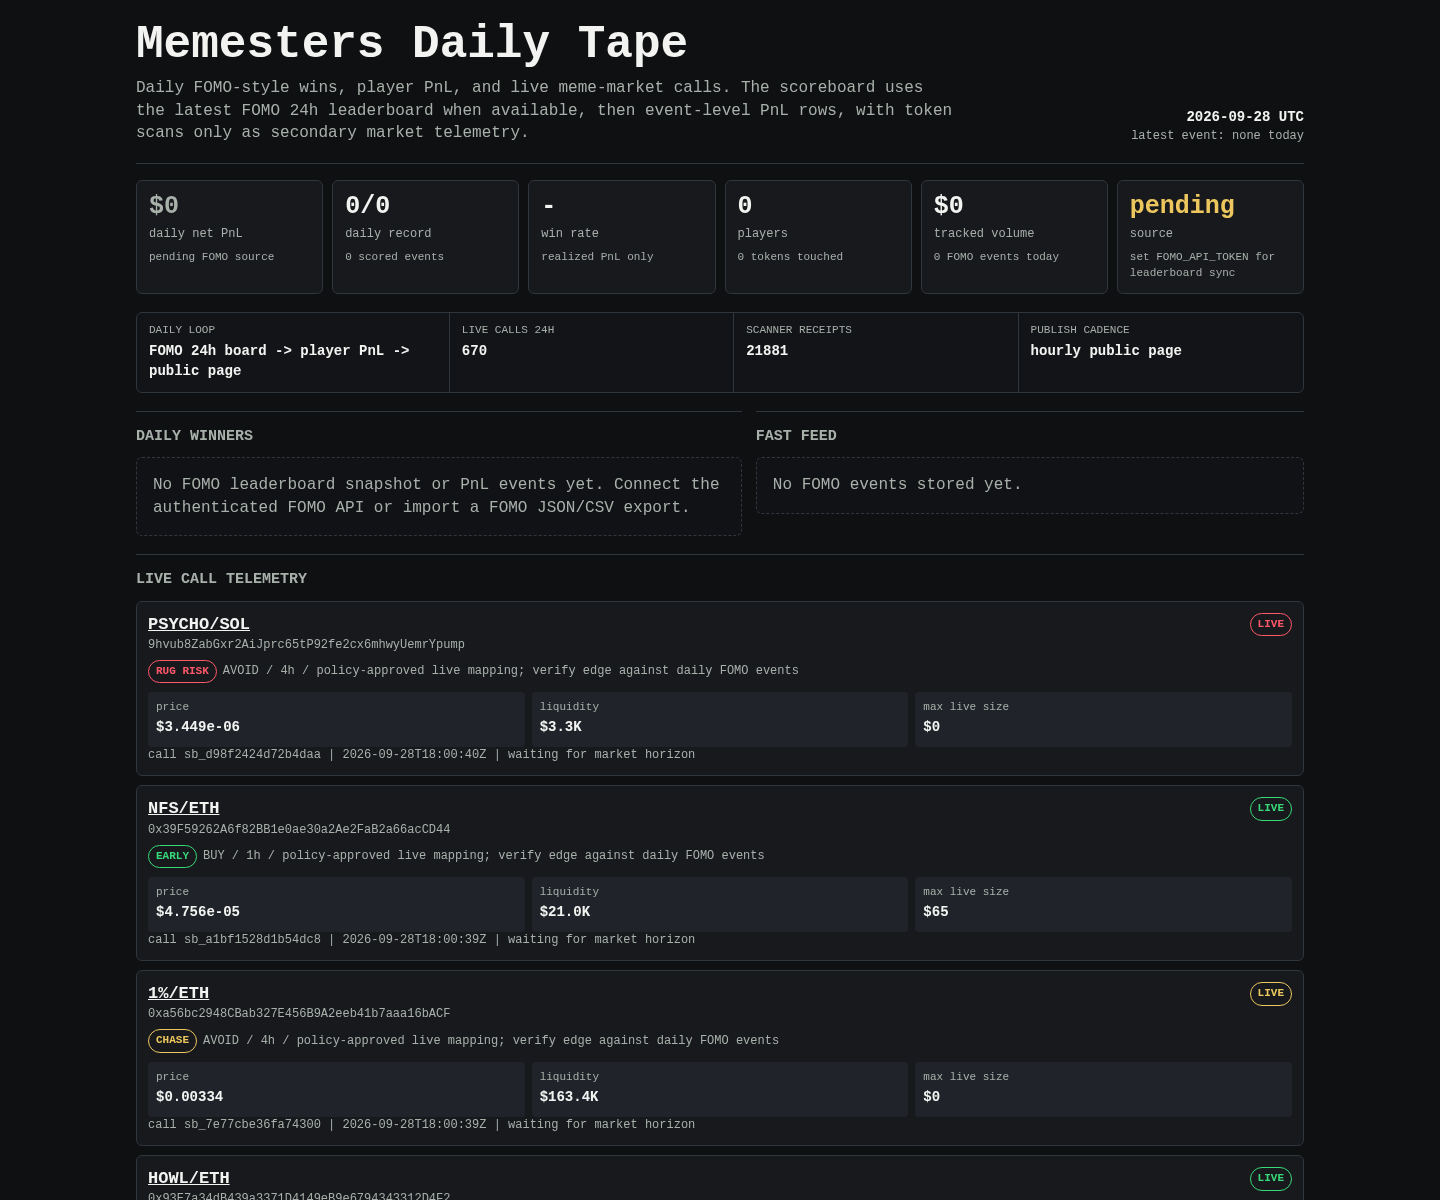
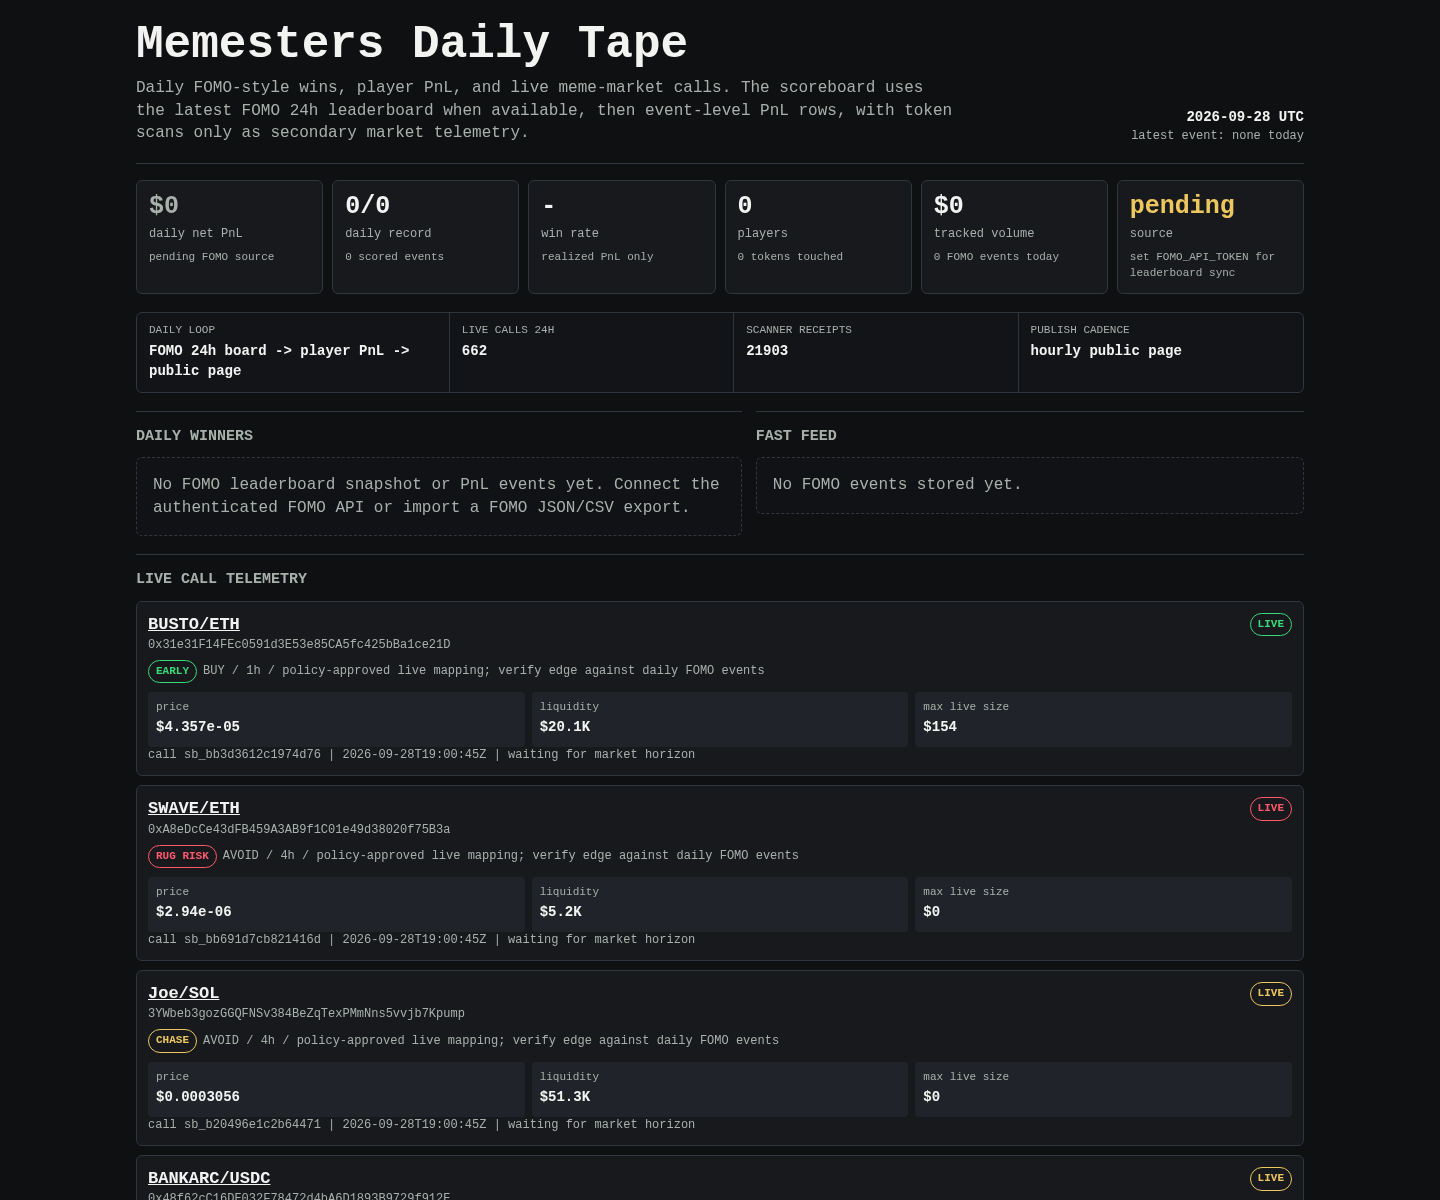
Update Memesters scoreboard

diff --git a/memesters/index.html b/memesters/index.html
@@ -149,8 +149,8 @@
 
     <div class="rail" aria-label="live operating loop">
       <div><span>daily loop</span><b>FOMO 24h board -> player PnL -> public page</b></div>
-      <div><span>live calls 24h</span><b>670</b></div>
-      <div><span>scanner receipts</span><b>21881</b></div>
+      <div><span>live calls 24h</span><b>662</b></div>
+      <div><span>scanner receipts</span><b>21903</b></div>
       <div><span>publish cadence</span><b>hourly public page</b></div>
     </div>
 
@@ -171,8 +171,29 @@
     <article class="receipt">
       <div class="receipt-head">
         <div>
-          <div class="pair"><a href="https://dexscreener.com/solana/dturxzvx5byjbnywzmeuuzdgmds3nvl54bcpar17y2cj">PSYCHO/SOL</a></div>
-          <div class="addr">9hvub8ZabGxr2AiJprc65tP92fe2cx6mhwyUemrYpump</div>
+          <div class="pair"><a href="https://dexscreener.com/robinhood/0x203d7a6fc181b4f360a4c6f4658244ace6a60e0e6060842c6c8265bd5f88f2dc">BUSTO/ETH</a></div>
+          <div class="addr">0x31e31F14FEc0591d3E53e85CA5fc425bBa1ce21D</div>
+          <div class="addr policy-line">
+            <span class="badge early">EARLY</span>
+            <span>BUY / 1h / policy-approved live mapping; verify edge against daily FOMO events</span>
+          </div>
+        </div>
+        <span class="badge early">LIVE</span>
+      </div>
+      <div class="receipt-grid">
+        <div class="kv"><span>price</span><b>$4.357e-05</b></div>
+        <div class="kv"><span>liquidity</span><b>$20.1K</b></div>
+        <div class="kv"><span>max live size</span><b>$154</b></div>
+      </div>
+      <div class="outcomes">call sb_bb3d3612c1974d76 | 2026-09-28T19:00:45Z | waiting for market horizon</div>
+    </article>
+    
+
+    <article class="receipt">
+      <div class="receipt-head">
+        <div>
+          <div class="pair"><a href="https://dexscreener.com/robinhood/0x1bad3a45105eb2ecd85be9cd23c222981812ad85f7dcd65cc6dc9ff84487f0a3">SWAVE/ETH</a></div>
+          <div class="addr">0xA8eDcCe43dFB459A3AB9f1C01e49d38020f75B3a</div>
           <div class="addr policy-line">
             <span class="badge rug-risk">RUG RISK</span>
             <span>AVOID / 4h / policy-approved live mapping; verify edge against daily FOMO events</span>
@@ -181,19 +202,124 @@
         <span class="badge rug-risk">LIVE</span>
       </div>
       <div class="receipt-grid">
-        <div class="kv"><span>price</span><b>$3.449e-06</b></div>
-        <div class="kv"><span>liquidity</span><b>$3.3K</b></div>
+        <div class="kv"><span>price</span><b>$2.94e-06</b></div>
+        <div class="kv"><span>liquidity</span><b>$5.2K</b></div>
         <div class="kv"><span>max live size</span><b>$0</b></div>
       </div>
-      <div class="outcomes">call sb_d98f2424d72b4daa | 2026-09-28T18:00:40Z | waiting for market horizon</div>
+      <div class="outcomes">call sb_bb691d7cb821416d | 2026-09-28T19:00:45Z | waiting for market horizon</div>
     </article>
     
 
     <article class="receipt">
       <div class="receipt-head">
         <div>
-          <div class="pair"><a href="https://dexscreener.com/robinhood/0x8eb8904318df3293e8f6ec09305fa23bcced4f52926f1d2e5f36486fd64f2c65">NFS/ETH</a></div>
-          <div class="addr">0x39F59262A6f82BB1e0ae30a2Ae2FaB2a66acCD44</div>
+          <div class="pair"><a href="https://dexscreener.com/solana/egqpnnvwb6afzcwgaf932jbttzc3kmgpzwphm9mgwqea">Joe/SOL</a></div>
+          <div class="addr">3YWbeb3gozGGQFNSv384BeZqTexPMmNns5vvjb7Kpump</div>
+          <div class="addr policy-line">
+            <span class="badge chase">CHASE</span>
+            <span>AVOID / 4h / policy-approved live mapping; verify edge against daily FOMO events</span>
+          </div>
+        </div>
+        <span class="badge chase">LIVE</span>
+      </div>
+      <div class="receipt-grid">
+        <div class="kv"><span>price</span><b>$0.0003056</b></div>
+        <div class="kv"><span>liquidity</span><b>$51.3K</b></div>
+        <div class="kv"><span>max live size</span><b>$0</b></div>
+      </div>
+      <div class="outcomes">call sb_b20496e1c2b64471 | 2026-09-28T19:00:45Z | waiting for market horizon</div>
+    </article>
+    
+
+    <article class="receipt">
+      <div class="receipt-head">
+        <div>
+          <div class="pair"><a href="https://dexscreener.com/arc/0x2fdcf4b93c5853dedf92d3addca83d5fcbc7289ed6c9832607dd59d92fdec4da">BANKARC/USDC</a></div>
+          <div class="addr">0x48f62cC16DE032F78472d4bA6D1893B9729f912E</div>
+          <div class="addr policy-line">
+            <span class="badge chase">CHASE</span>
+            <span>AVOID / 4h / policy-approved live mapping; verify edge against daily FOMO events</span>
+          </div>
+        </div>
+        <span class="badge chase">LIVE</span>
+      </div>
+      <div class="receipt-grid">
+        <div class="kv"><span>price</span><b>$3.782e-05</b></div>
+        <div class="kv"><span>liquidity</span><b>$16.9K</b></div>
+        <div class="kv"><span>max live size</span><b>$0</b></div>
+      </div>
+      <div class="outcomes">call sb_5b1119757f844627 | 2026-09-28T19:00:45Z | waiting for market horizon</div>
+    </article>
+    
+
+    <article class="receipt">
+      <div class="receipt-head">
+        <div>
+          <div class="pair"><a href="https://dexscreener.com/solana/ztgf86bhqhwny8dm3ts4pdfiqumu8fnp2eiddrzaywj">MEM6900/SOL</a></div>
+          <div class="addr">FQzzdtWpBRttt9ZyonVWS27p8rrAYLFy3VxmrsMxeUg2</div>
+          <div class="addr policy-line">
+            <span class="badge rug-risk">RUG RISK</span>
+            <span>AVOID / 4h / policy-approved live mapping; verify edge against daily FOMO events</span>
+          </div>
+        </div>
+        <span class="badge rug-risk">LIVE</span>
+      </div>
+      <div class="receipt-grid">
+        <div class="kv"><span>price</span><b>$2.025e-05</b></div>
+        <div class="kv"><span>liquidity</span><b>$3.6K</b></div>
+        <div class="kv"><span>max live size</span><b>$0</b></div>
+      </div>
+      <div class="outcomes">call sb_2eedb8edbfd04f9d | 2026-09-28T19:00:45Z | waiting for market horizon</div>
+    </article>
+    
+
+    <article class="receipt">
+      <div class="receipt-head">
+        <div>
+          <div class="pair"><a href="https://dexscreener.com/solana/j3i3si9daeyrcxanmmsdhjf6y9ft5opqpx8ucsimacly">HUGEKINSON/cbADA</a></div>
+          <div class="addr">BBwH6xYy2LTmbjYX3e9uS5UKgNqmrx7PVSsfpwgsXcNL</div>
+          <div class="addr policy-line">
+            <span class="badge rug-risk">RUG RISK</span>
+            <span>AVOID / 4h / policy-approved live mapping; verify edge against daily FOMO events</span>
+          </div>
+        </div>
+        <span class="badge rug-risk">LIVE</span>
+      </div>
+      <div class="receipt-grid">
+        <div class="kv"><span>price</span><b>$2.831e-05</b></div>
+        <div class="kv"><span>liquidity</span><b>$15.4K</b></div>
+        <div class="kv"><span>max live size</span><b>$0</b></div>
+      </div>
+      <div class="outcomes">call sb_0a37ac022b014f66 | 2026-09-28T19:00:45Z | waiting for market horizon</div>
+    </article>
+    
+
+    <article class="receipt">
+      <div class="receipt-head">
+        <div>
+          <div class="pair"><a href="https://dexscreener.com/robinhood/0xffc607064167a72865988a5344bb3466e14c1bad3d903634958253130fe41158">BPEPE/ETH</a></div>
+          <div class="addr">0xBf818eFe65aac127AC8f9Fec6fEC203ee222C851</div>
+          <div class="addr policy-line">
+            <span class="badge chase">CHASE</span>
+            <span>AVOID / 4h / policy-approved live mapping; verify edge against daily FOMO events</span>
+          </div>
+        </div>
+        <span class="badge chase">LIVE</span>
+      </div>
+      <div class="receipt-grid">
+        <div class="kv"><span>price</span><b>$0.0003327</b></div>
+        <div class="kv"><span>liquidity</span><b>$76.1K</b></div>
+        <div class="kv"><span>max live size</span><b>$0</b></div>
+      </div>
+      <div class="outcomes">call sb_31f9108d5f5a4702 | 2026-09-28T19:00:45Z | waiting for market horizon</div>
+    </article>
+    
+
+    <article class="receipt">
+      <div class="receipt-head">
+        <div>
+          <div class="pair"><a href="https://dexscreener.com/robinhood/0x259919435706804c27b4dc62663fef46a5e7e67af11a4f58374ed92bcfdfa34d">POKEBALL/ETH</a></div>
+          <div class="addr">0x0e09F521A15D0F71BA0FbAc10F9878E7B410ecAB</div>
           <div class="addr policy-line">
             <span class="badge early">EARLY</span>
             <span>BUY / 1h / policy-approved live mapping; verify edge against daily FOMO events</span>
@@ -202,19 +328,19 @@
         <span class="badge early">LIVE</span>
       </div>
       <div class="receipt-grid">
-        <div class="kv"><span>price</span><b>$4.756e-05</b></div>
-        <div class="kv"><span>liquidity</span><b>$21.0K</b></div>
-        <div class="kv"><span>max live size</span><b>$65</b></div>
+        <div class="kv"><span>price</span><b>$1.501e-05</b></div>
+        <div class="kv"><span>liquidity</span><b>$11.8K</b></div>
+        <div class="kv"><span>max live size</span><b>$25</b></div>
       </div>
-      <div class="outcomes">call sb_a1bf1528d1b54dc8 | 2026-09-28T18:00:39Z | waiting for market horizon</div>
+      <div class="outcomes">call sb_6221440a49904a0c | 2026-09-28T19:00:45Z | waiting for market horizon</div>
     </article>
     
 
     <article class="receipt">
       <div class="receipt-head">
         <div>
-          <div class="pair"><a href="https://dexscreener.com/robinhood/0x05974a2b88ebbadf01d17d52b2872517aadcdb153526b275edd3336f4223eed5">1%/ETH</a></div>
-          <div class="addr">0xa56bc2948CBab327E456B9A2eeb41b7aaa16bACF</div>
+          <div class="pair"><a href="https://dexscreener.com/solana/agubqrj5t5snyfmuhqbxq4zobchbhkw2jnc79mhapqtc">STOXES/SOL</a></div>
+          <div class="addr">AfVUPhruMtJuFVtPj4u8kvpNbNEuy7VQ3ME5eAHq9999</div>
           <div class="addr policy-line">
             <span class="badge chase">CHASE</span>
             <span>AVOID / 4h / policy-approved live mapping; verify edge against daily FOMO events</span>
@@ -223,19 +349,19 @@
         <span class="badge chase">LIVE</span>
       </div>
       <div class="receipt-grid">
-        <div class="kv"><span>price</span><b>$0.00334</b></div>
-        <div class="kv"><span>liquidity</span><b>$163.4K</b></div>
+        <div class="kv"><span>price</span><b>$0.0007121</b></div>
+        <div class="kv"><span>liquidity</span><b>$84.2K</b></div>
         <div class="kv"><span>max live size</span><b>$0</b></div>
       </div>
-      <div class="outcomes">call sb_7e77cbe36fa74300 | 2026-09-28T18:00:39Z | waiting for market horizon</div>
+      <div class="outcomes">call sb_0a81374009bf473d | 2026-09-28T18:45:35Z | waiting for market horizon</div>
     </article>
     
 
     <article class="receipt">
       <div class="receipt-head">
         <div>
-          <div class="pair"><a href="https://dexscreener.com/robinhood/0x45e4ac78d4b893f27064739cff23c889ca58a1b1588d820228db83e01e476fe5">HOWL/ETH</a></div>
-          <div class="addr">0x93E7a34dB439a3371D4149eB9e6794343312D4F2</div>
+          <div class="pair"><a href="https://dexscreener.com/robinhood/0x1bad3a45105eb2ecd85be9cd23c222981812ad85f7dcd65cc6dc9ff84487f0a3">SWAVE/ETH</a></div>
+          <div class="addr">0xA8eDcCe43dFB459A3AB9f1C01e49d38020f75B3a</div>
           <div class="addr policy-line">
             <span class="badge early">EARLY</span>
             <span>BUY / 1h / policy-approved live mapping; verify edge against daily FOMO events</span>
@@ -244,137 +370,11 @@
         <span class="badge early">LIVE</span>
       </div>
       <div class="receipt-grid">
-        <div class="kv"><span>price</span><b>$4.58e-05</b></div>
-        <div class="kv"><span>liquidity</span><b>$20.6K</b></div>
-        <div class="kv"><span>max live size</span><b>$134</b></div>
+        <div class="kv"><span>price</span><b>$4.121e-05</b></div>
+        <div class="kv"><span>liquidity</span><b>$19.5K</b></div>
+        <div class="kv"><span>max live size</span><b>$131</b></div>
       </div>
-      <div class="outcomes">call sb_542c1dafe94a402b | 2026-09-28T18:00:39Z | waiting for market horizon</div>
-    </article>
-    
-
-    <article class="receipt">
-      <div class="receipt-head">
-        <div>
-          <div class="pair"><a href="https://dexscreener.com/solana/asudb9wwrp6umktmbcurzqvcitcyqckfcknzygwh538f">DEGENLAND/SOL</a></div>
-          <div class="addr">9bLhB7d4Hs9WCZmHy4NQCcHurdKa9wwk8PAK67ivPoFT</div>
-          <div class="addr policy-line">
-            <span class="badge chase">CHASE</span>
-            <span>AVOID / 4h / policy-approved live mapping; verify edge against daily FOMO events</span>
-          </div>
-        </div>
-        <span class="badge chase">LIVE</span>
-      </div>
-      <div class="receipt-grid">
-        <div class="kv"><span>price</span><b>$1.244e-05</b></div>
-        <div class="kv"><span>liquidity</span><b>$2.8K</b></div>
-        <div class="kv"><span>max live size</span><b>$0</b></div>
-      </div>
-      <div class="outcomes">call sb_f8c6b1a925e042cb | 2026-09-28T18:00:39Z | waiting for market horizon</div>
-    </article>
-    
-
-    <article class="receipt">
-      <div class="receipt-head">
-        <div>
-          <div class="pair"><a href="https://dexscreener.com/solana/ejda4ai1ws8uimefupvmzyaamluyp8gvltvwvlqcicgv">JEANPAID/SOL</a></div>
-          <div class="addr">4Exc9SfSRRButkzTT456SPa6sTzQCb8pnfqcUECGpump</div>
-          <div class="addr policy-line">
-            <span class="badge chase">CHASE</span>
-            <span>AVOID / 4h / policy-approved live mapping; verify edge against daily FOMO events</span>
-          </div>
-        </div>
-        <span class="badge chase">LIVE</span>
-      </div>
-      <div class="receipt-grid">
-        <div class="kv"><span>price</span><b>$0.0001099</b></div>
-        <div class="kv"><span>liquidity</span><b>$28.3K</b></div>
-        <div class="kv"><span>max live size</span><b>$0</b></div>
-      </div>
-      <div class="outcomes">call sb_8f90b0207b794fe9 | 2026-09-28T18:00:39Z | waiting for market horizon</div>
-    </article>
-    
-
-    <article class="receipt">
-      <div class="receipt-head">
-        <div>
-          <div class="pair"><a href="https://dexscreener.com/bsc/0x4fdb42f7c69ff3e076fc2f25b4c6f55c25ce2428">HIVE/WBNB</a></div>
-          <div class="addr">0xc3Af616BA6be262E251D43129ec9B6059b2C7777</div>
-          <div class="addr policy-line">
-            <span class="badge chase">CHASE</span>
-            <span>AVOID / 4h / policy-approved live mapping; verify edge against daily FOMO events</span>
-          </div>
-        </div>
-        <span class="badge chase">LIVE</span>
-      </div>
-      <div class="receipt-grid">
-        <div class="kv"><span>price</span><b>$1.213e-05</b></div>
-        <div class="kv"><span>liquidity</span><b>$15.9K</b></div>
-        <div class="kv"><span>max live size</span><b>$0</b></div>
-      </div>
-      <div class="outcomes">call sb_487363edf2094870 | 2026-09-28T18:00:39Z | waiting for market horizon</div>
-    </article>
-    
-
-    <article class="receipt">
-      <div class="receipt-head">
-        <div>
-          <div class="pair"><a href="https://dexscreener.com/near/refv2-nearme.nearlytrade.near:wrap.near:10000">NEARME/wNEAR</a></div>
-          <div class="addr">nearme.nearlytrade.near</div>
-          <div class="addr policy-line">
-            <span class="badge chase">CHASE</span>
-            <span>AVOID / 4h / policy-approved live mapping; verify edge against daily FOMO events</span>
-          </div>
-        </div>
-        <span class="badge chase">LIVE</span>
-      </div>
-      <div class="receipt-grid">
-        <div class="kv"><span>price</span><b>$2.725e-05</b></div>
-        <div class="kv"><span>liquidity</span><b>$18.6K</b></div>
-        <div class="kv"><span>max live size</span><b>$0</b></div>
-      </div>
-      <div class="outcomes">call sb_908d4a9ba19a4449 | 2026-09-28T18:00:39Z | waiting for market horizon</div>
-    </article>
-    
-
-    <article class="receipt">
-      <div class="receipt-head">
-        <div>
-          <div class="pair"><a href="https://dexscreener.com/solana/gbxzcecgtw5s4qb95dtdycubz5eqw2scwplm4pfj6bx3">DSWAMP/SOL</a></div>
-          <div class="addr">E81zpDGE1e2RhmLqGXfZL5TMje1nm6Sd9r5KGrsepump</div>
-          <div class="addr policy-line">
-            <span class="badge chase">CHASE</span>
-            <span>AVOID / 4h / policy-approved live mapping; verify edge against daily FOMO events</span>
-          </div>
-        </div>
-        <span class="badge chase">LIVE</span>
-      </div>
-      <div class="receipt-grid">
-        <div class="kv"><span>price</span><b>$0.0001173</b></div>
-        <div class="kv"><span>liquidity</span><b>$31.8K</b></div>
-        <div class="kv"><span>max live size</span><b>$0</b></div>
-      </div>
-      <div class="outcomes">call sb_b092b991c0014aca | 2026-09-28T17:45:35Z | waiting for market horizon</div>
-    </article>
-    
-
-    <article class="receipt">
-      <div class="receipt-head">
-        <div>
-          <div class="pair"><a href="https://dexscreener.com/solana/3x7tlbtjgfakk6miteeyuirhqlejsdjoauz1kyvrnj45">BLUB/MSFTx</a></div>
-          <div class="addr">5HpB4gU9M7xtHC2fLK1FXP7UuDQUvJTRD6guwPKPJUGi</div>
-          <div class="addr policy-line">
-            <span class="badge chase">CHASE</span>
-            <span>AVOID / 4h / policy-approved live mapping; verify edge against daily FOMO events</span>
-          </div>
-        </div>
-        <span class="badge chase">LIVE</span>
-      </div>
-      <div class="receipt-grid">
-        <div class="kv"><span>price</span><b>$0.0001664</b></div>
-        <div class="kv"><span>liquidity</span><b>$38.6K</b></div>
-        <div class="kv"><span>max live size</span><b>$0</b></div>
-      </div>
-      <div class="outcomes">call sb_ead2e9f144654571 | 2026-09-28T17:45:35Z | waiting for market horizon</div>
+      <div class="outcomes">call sb_814481fb70054295 | 2026-09-28T18:45:35Z | waiting for market horizon</div>
     </article>
     
     </section>
